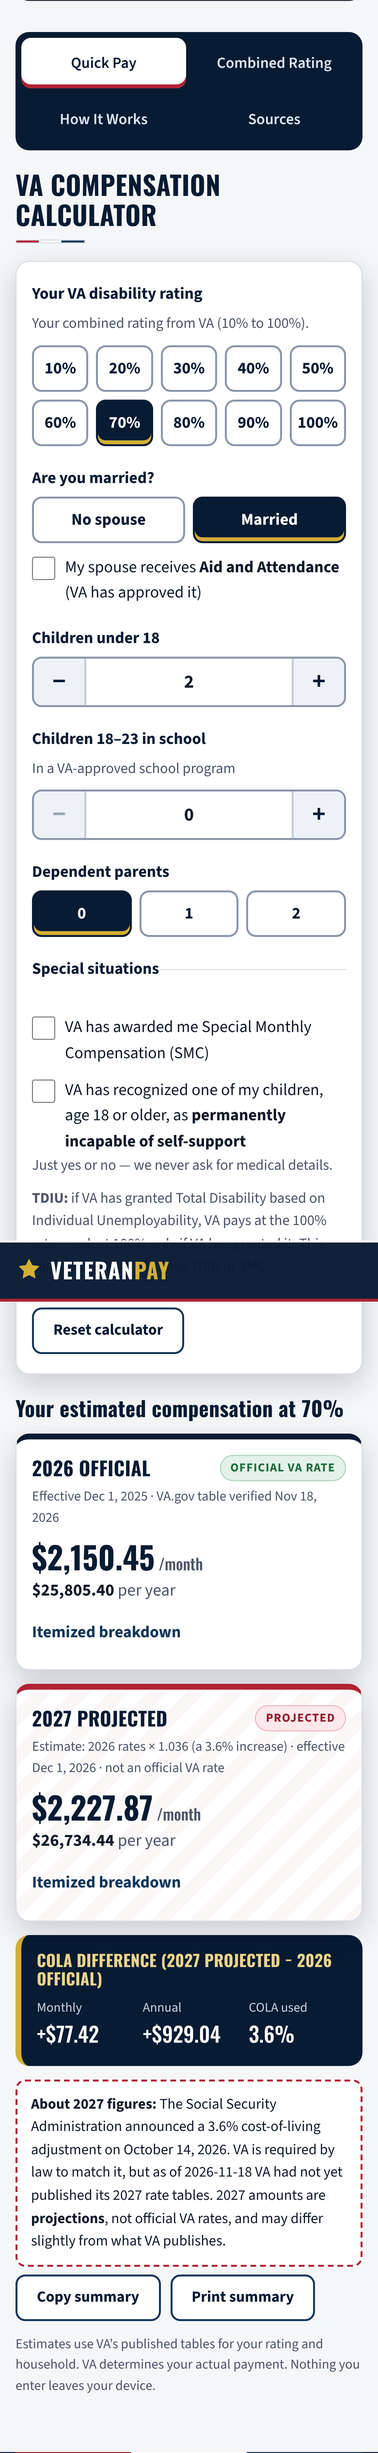
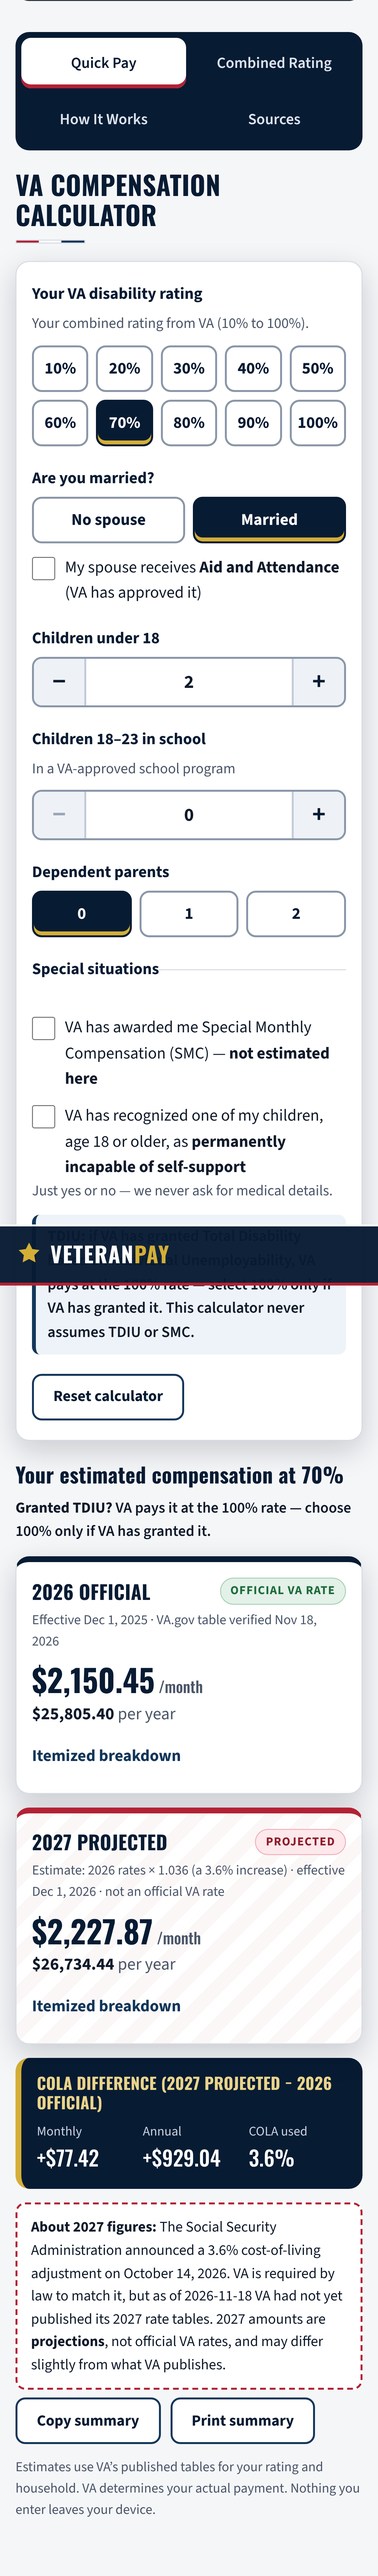
Clarify SMC checkbox and make TDIU guidance prominent
- SMC label now ends with "not estimated here" so withholding the estimate
  is expected, not confusing. No SMC amounts are calculated.
- TDIU note is full-contrast bold in a highlighted box instead of muted small
  print, and a short TDIU line appears above the result amounts.
- UI test covers both; 93 tests pass.

Claude-Session: https://claude.ai/code/session_018dbFcAxSFCPLwop7PF7wZ7

diff --git a/src/components/QuickPay.tsx b/src/components/QuickPay.tsx
@@ -285,7 +285,9 @@ export function QuickPay({ household: h, onChange }: Props) {
           <legend className="field__label">Special situations</legend>
           <label className="check">
             <input type="checkbox" checked={!!h.receivesSMC} onChange={(e) => set({ receivesSMC: e.target.checked })} />
-            <span>VA has awarded me Special Monthly Compensation (SMC)</span>
+            <span>
+              VA has awarded me Special Monthly Compensation (SMC) — <strong>not estimated here</strong>
+            </span>
           </label>
           <label className="check">
             <input
@@ -298,7 +300,7 @@ export function QuickPay({ household: h, onChange }: Props) {
             </span>
           </label>
           <p className="field__hint">Just yes or no — we never ask for medical details.</p>
-          <p className="field__hint">
+          <p className="tdiu-note">
             <strong>TDIU:</strong> if VA has granted Total Disability based on Individual Unemployability, VA pays at the
             100% rate — select 100% only if VA has granted it. This calculator never assumes TDIU or SMC.
           </p>
@@ -320,6 +322,9 @@ export function QuickPay({ household: h, onChange }: Props) {
             ? `2026 official monthly amount ${formatCents(r2026.monthly)}.`
             : 'No estimate shown for this situation.'}
           {r2027.kind === 'ok' ? ` 2027 projected monthly amount ${formatCents(r2027.monthly)}.` : ''}
+        </p>
+        <p className="tdiu-inline">
+          <strong>Granted TDIU?</strong> VA pays it at the 100% rate — choose 100% only if VA has granted it.
         </p>
         <div className="result-grid">
           <ResultCard result={r2026} kind="official" />

diff --git a/src/test/ui.test.tsx b/src/test/ui.test.tsx
@@ -59,6 +59,20 @@ describe('App', () => {
     expect(screen.getAllByText('$4,158.17').length).toBeGreaterThan(0);
   });
 
+  it('SMC label says it is not estimated; TDIU guidance is prominent and repeated by the result', () => {
+    render(<App />);
+    const smc = screen.getByLabelText(/Special Monthly Compensation \(SMC\)/);
+    expect(smc.closest('label')!.textContent).toMatch(/not estimated here/);
+    const note = document.querySelector('.tdiu-note')!;
+    expect(note.textContent).toMatch(/VA pays at the\s+100% rate/);
+    expect(note.classList.contains('field__hint')).toBe(false); // no longer muted small print
+    const inline = document.querySelector('.calc__results .tdiu-inline')!;
+    expect(inline.textContent).toMatch(/Granted TDIU\? VA pays it at the 100% rate/);
+    // TDIU is never assumed: the selected rating is unchanged (70%) and its official amount still shows
+    expect(screen.getByRole('heading', { name: /Your estimated compensation at 70%/ })).toBeTruthy();
+    expect(screen.getAllByText('$1,808.45').length).toBeGreaterThan(0);
+  });
+
   it('shows a warning and no amount for SMC', () => {
     render(<App />);
     fireEvent.click(screen.getByLabelText(/Special Monthly Compensation/));

diff --git a/src/styles.css b/src/styles.css
@@ -721,6 +721,22 @@ select {
   -webkit-appearance: none;
   margin: 0;
 }
+.tdiu-note {
+  margin: 12px 0 0;
+  padding: 10px 12px;
+  border-left: 4px solid var(--military);
+  background: #eef3f9;
+  border-radius: 8px;
+  color: var(--ink);
+  font-weight: 600;
+  font-size: 1rem;
+}
+.tdiu-inline {
+  margin: -4px 0 14px;
+  color: var(--ink);
+  font-weight: 600;
+  font-size: 0.98rem;
+}
 .field--special {
   padding-top: 16px;
   border-top: 1px solid var(--line);
